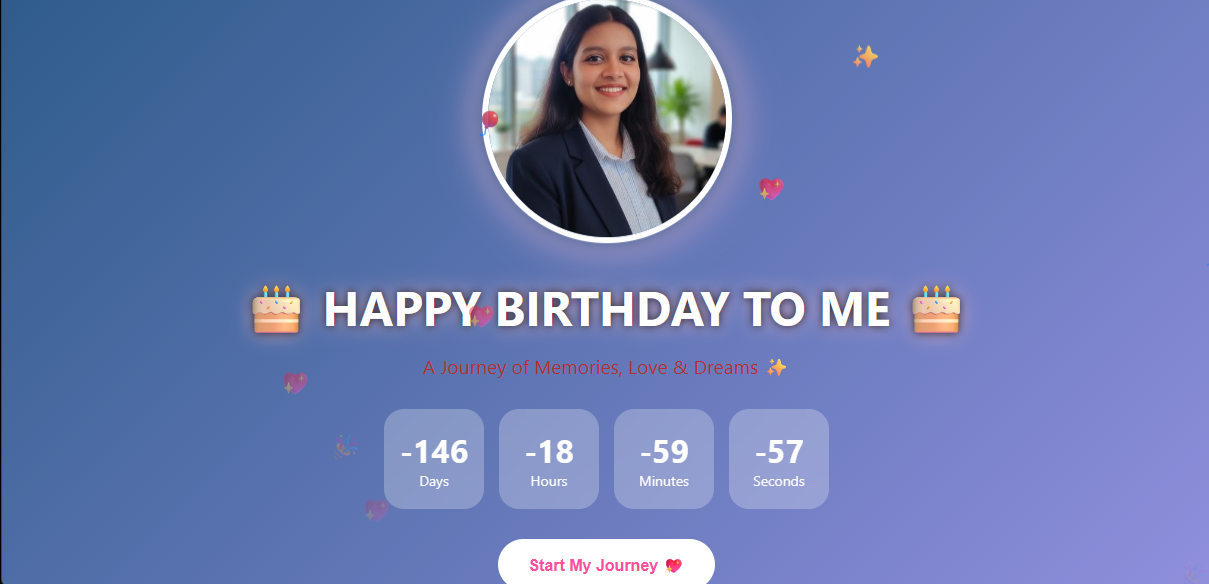
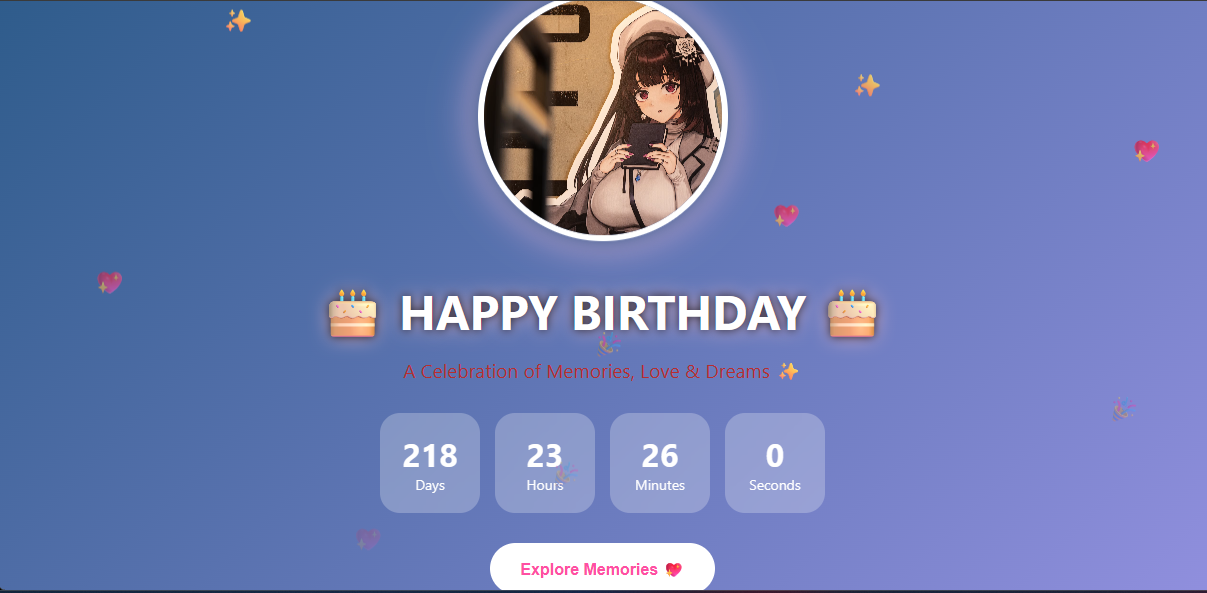
Update portfolio image

diff --git a/index.html b/index.html
@@ -161,7 +161,7 @@
 
                 <div class="project-card">
                     <h3>Birthday Website</h3>
-                    <img src="./Screenshot 2026-11-05 003406.png alt="Birthday Website">
+                    <img src="./Birthday.png" alt="Birthday Website">
                     <p>
                         A creative birthday website designed for my birthday, making the special day memorable
                         through
